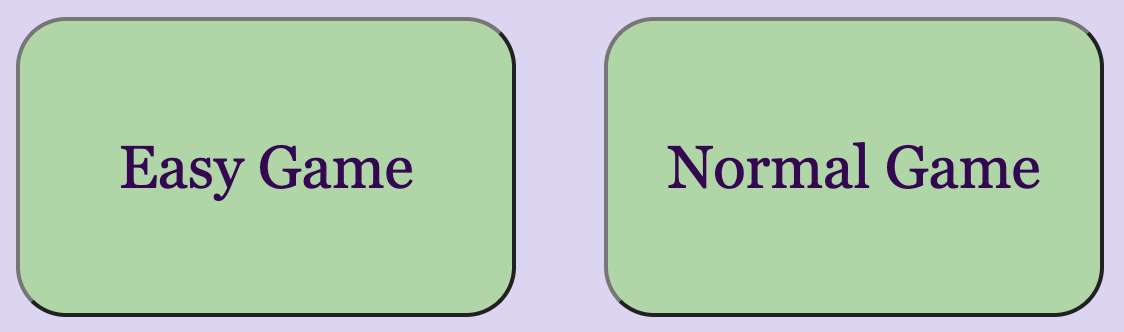
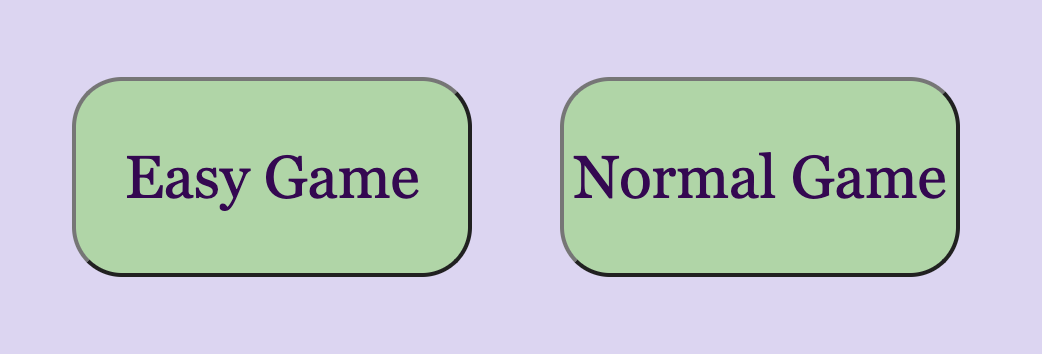
Add images to readme

diff --git a/README.md b/README.md
@@ -1,6 +1,6 @@
 <h1>Card Memory Game</h1>
 
-<p>This project introduces an interactive website with Card Memory Game. This game alllows users to test their memory matching the pairs of cards with car manufacturer logos on them.</p>
+<p>This project introduces an interactive website with Card Memory Game. This game allows users to test their memory matching the pairs of cards with car logos on them.</p>
 <p>Target audience: children of all ages, especially those interested in cars and their logos.</p>
 
 <img src="assets/images/readme/devices.jpg">
@@ -42,12 +42,12 @@
 <img src="assets/images/readme/main.jpg" width=600px height=auto>
 
   ### Game Levels 
-<p>After clicking "Let's Start the Game" button users are getting moved to the next page where they can pick the level of the game: "easy" (2x2 cards) or "normal" (4x4).</p>
+<p>After clicking "Let's Start the Game" button users are getting moved to the next (game) page where they can pick the level of the game: "easy" (2x2 cards) or "normal" (4x4).</p>
 
 <img src="assets/images/readme/levels.jpg" width=600px height=auto>
 
   ### Home Button
-<p>At the bottom of the game page is located the "home" button, allowing users to open the main page of the game.</p>
+<p>The "home" button is located at the bottom of the game page, allowing users to open the main page of the game.</p>
 
 <img src="assets/images/readme/home.jpg" width=200px height=auto>
 
@@ -56,12 +56,17 @@
 <p>Player clicks on the cards to flip them over. If the two cards have the same image (car logo), then player continues with the next cards, otherwise the cards turn face down.</p>
 
 <img src="assets/images/readme/easy.jpg" width=600px height=auto>
+<br>
+<img src="assets/images/readme/easy2.jpg" width=600px height=auto>
+
 
   ### Normal Game
 <p>After clicking the "Normal Game" button users see the card game field 4x4 cards with car image on the back side.</p>
 <p>Player clicks on the cards to flip them over. If the two cards have the same image (car logo), then player continues with the next cards, otherwise the cards turn face down.</p>
 
 <img src="assets/images/readme/normal.jpg" width=600px height=auto>
+<br>
+<img src="assets/images/readme/normal2.jpg" width=600px height=auto>
 
   ### You Win Message
 <p>Once all the pairs have been matched, user wins the game and receives "You Win!" message.</p>
@@ -122,7 +127,7 @@ Two unused variables "startEasyGame" and "startNormalGame" are being called usin
 <img src="assets/images/readme/bug1fix.jpg" width=300px height=auto>
 <p>Additionally a global variable "level" was added with a default value of "null". It helped to solve the issue.</p>
 <li>Bug Number Two: Shuffle function didn't work properly for easy game, it was taking random cards from the whole array (8 cards) rather than from the first two cards.</li>
-<p>Solution: "shuffleCard" function was moved from "matchCard" function to the very beginning of the game, when users decides which game to play (easy / normal). Code with a bug:</p>
+<p>Solution: "shuffleCard" function was moved from "matchCard" function to the very beginning of the game, when users decide which game to play (easy / normal). Code with a bug:</p>
 <img src="assets/images/readme/bug2.jpg" width=300px height=auto>
 <p>Code after the fix:</p>
 <img src="assets/images/readme/bug2fix.jpg" width=300px height=auto>
